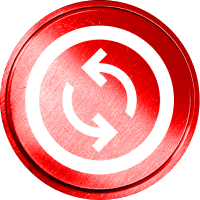
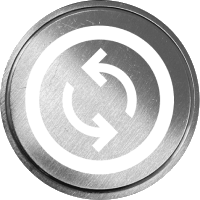
lastChangesMyCollectionPage

diff --git a/public/javascript/pagesClient/myCollection.js b/public/javascript/pagesClient/myCollection.js
@@ -36,13 +36,14 @@ export default function colecaoHtml() {
 
     function rowFunko(item) {
         return `
-
-                <div class="divFunko , ${item.id != null ? "my-item" : ""}">
+            
+                <div class="divFunko , ${item.funko.category} , ${item.id != null ? "my-item" : ""} , ${item.id}">
                     <img class="imgCollectionFunko" id="${item.id || ""}" data-funko-id="${item.funko.id}" 
                         src="/repository/images/${item.funko.id}.png" alt="${item.funko.name}" title="${item.funko.name}"></img>
-                    <button class="exchange" data-exchange="${item.isExchange}" data-funko-name="${item.funko.name}"  
+
+
+                    <button class="exchange btnCollectionFunko ${item.isExchange ? 'btnChange' : 'btnNoChange'}" data-exchange="${item.isExchange}" data-funko-name="${item.funko.name}"  
                             style="${item.id != null ? "" : "display:none"}"  id="${item.id || ""}"">
-                            ${item.isExchange ? "Em Oferta" : "______"}
                     </button>
                 </div>
 

diff --git a/public/css/clientPages/myCollection.css b/public/css/clientPages/myCollection.css
@@ -106,13 +106,13 @@
 
 .my-item {
     filter: grayscale(0);
+    justify-content: flex-end !important;
 }
 
 .imgCollectionFunko {
     height: 50%;
     object-fit: contain;
     align-items: center;
-    margin-top: 8vh;
 }
 .divCollectionFunkos::-webkit-scrollbar {
     width: 12px; /* width of the entire scrollbar */
@@ -129,16 +129,23 @@
 }
 
 .btnCollectionFunko{
-    width: 100%;
-    height: 100%;
+    width: 17%;
+    height: 17%;
+    position: relative;
+    top: 4.5%;
     background-color: transparent;
     border: none;
     outline: none;
     cursor: pointer;
-    margin-bottom: 1vh;
+    margin-bottom: 3%;
+    z-index: 5;
+    background-repeat: no-repeat;
+    background-size: contain;
+    background-position: center;
 }
-.btnImageChange{
-    width: 18%;
-    position: relative;
-    bottom: -30%
+.btnChange{
+    background-image: url("../../images/btnChange.png");
+}
+.btnNoChange{
+    background-image: url("../../images/btnNoChange.png");
 }
